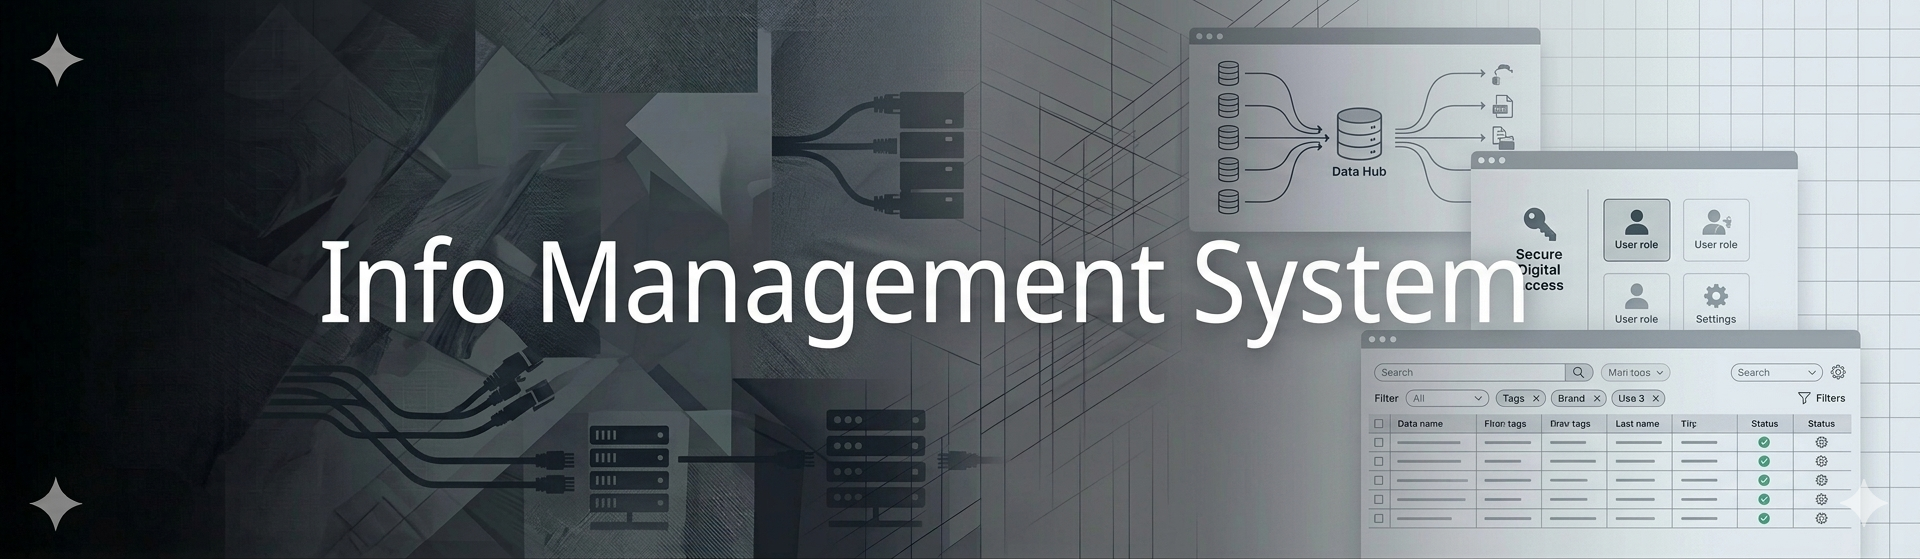
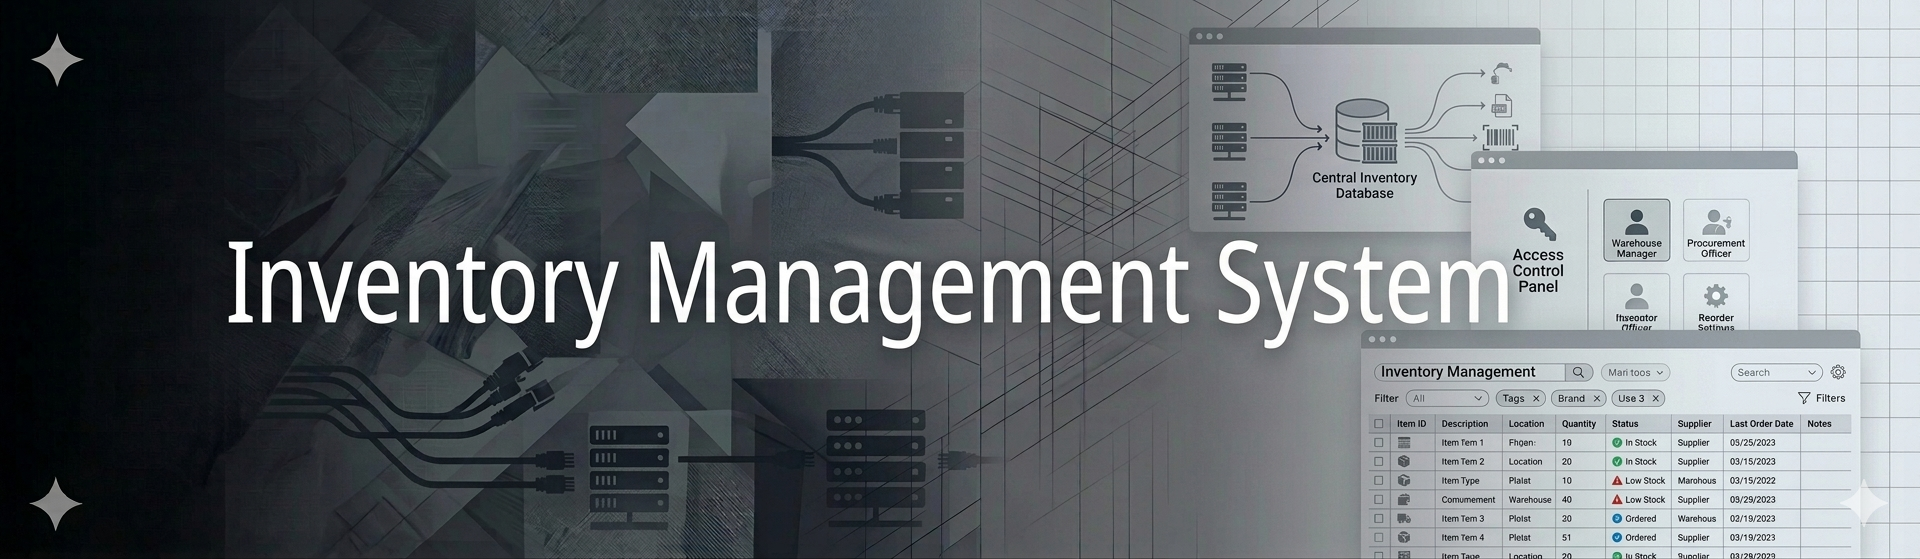
fix styling on products.html, vendors-list.html, vendors.html, fix search by vendor in vendors-list; VendorDetailViewController.java, VendorViewController.java, VendorRepository.java, VendorService.java, VendorServiceImpl.java

diff --git a/src/main/resources/templates/vendors-list.html b/src/main/resources/templates/vendors-list.html
@@ -20,43 +20,46 @@
 
     <!-- Search and Filter Section -->
     <div class="filter-section border">
-        <form th:action="@{/vendors/all}" method="get" class="row align-items-center">
-            <div class="col-md-4">
-                <div class="input-group">
-                    <span class="input-group-text">Search Vendor:</span>
-                    <label>
-                        <input type="text" name="searchVendor" class="form-control" placeholder="Search...">
-                    </label>
-                    <button class="btn btn-outline-secondary" type="button">Clear</button>
-                </div>
-            </div>
+        <form th:action="@{/vendors/all}" method="get">
+            <label for="vendors">Search Vendor:</label>
+            <input
+                    type="search"
+                    id="vendors"
+                    name="contactName"
+                    th:value="${contactName}"
+                    placeholder="Search By Vendors..."
+                    required
+            />
+            <button type="submit">Search</button>
+            <span class="validity" aria-live="polite"></span>
+            <a th:href="@{/vendors/all}" style="text-decoration: none;">
+                <button type="button">Clear / Show All</button>
+            </a>
 
-            <div class="col-md-6 d-flex align-items-center">
-                <span class="me-3 fw-bold">Filters:</span>
-                <div class="form-check form-check-inline">
-                    <label>
-                        <input class="form-check-input" type="checkbox" checked>
-                    </label> <label class="form-check-label">All</label>
-                </div>
-                <div class="form-check form-check-inline">
-                    <label>
-                        <input class="form-check-input" type="checkbox">
-                    </label> <label class="form-check-label">Enabled</label>
-                </div>
-                <div class="form-check form-check-inline">
-                    <label>
-                        <input class="form-check-input" type="checkbox">
-                    </label> <label class="form-check-label">Disabled</label>
-                </div>
-            </div>
+<!--            <div class="col-md-6 d-flex align-items-center">-->
+<!--                <span class="me-3 fw-bold">Filters:</span>-->
+<!--                <div class="form-check form-check-inline">-->
+<!--                    <label>-->
+<!--                        <input class="form-check-input" type="checkbox" checked>-->
+<!--                    </label> <label class="form-check-label">All</label>-->
+<!--                </div>-->
+<!--                <div class="form-check form-check-inline">-->
+<!--                    <label>-->
+<!--                        <input class="form-check-input" type="checkbox">-->
+<!--                    </label> <label class="form-check-label">Enabled</label>-->
+<!--                </div>-->
+<!--                <div class="form-check form-check-inline">-->
+<!--                    <label>-->
+<!--                        <input class="form-check-input" type="checkbox">-->
+<!--                    </label> <label class="form-check-label">Disabled</label>-->
+<!--                </div>-->
+<!--            </div>-->
 
-            <div class="col-md-2 text-end">
-                <button type="button" class="btn btn-dark btn-sm rounded-pill">Remove all filters</button>
-            </div>
+<!--            <div class="col-md-2 text-end">-->
+<!--                <button type="button" class="btn btn-dark btn-sm rounded-pill">Remove all filters</button>-->
+<!--            </div>-->
         </form>
     </div>
-
-
 
     <!--Pagination-->
     <nav aria-label="Search navigation" th:if="${searchResults?.totalPages > 1}" class="mt-4">

diff --git a/src/main/resources/templates/vendors.html b/src/main/resources/templates/vendors.html
@@ -17,12 +17,12 @@
 
 <div class="container mt-5">
 
-    <h2 class="mb-4" style="margin-left: 20px; margin-right: 20px;">Vendors Card View</h2>
+    <h2 class="mb-4">Vendors Card View</h2>
 
-    <div class="filter-section border"
-         style="margin-left: 20px; margin-right: 20px; padding: 10px; display: flex; align-items: center; border-radius: 5px;">
+<!--         style="margin-left: 20px; margin-right: 20px; padding: 10px; display: flex; align-items: center; border-radius: 5px;">-->
 
-    <div style="margin-left: 5px;">
+<!--    <div style="margin-left: 5px;">-->
+    <div class="filter-section border">
         <form class="second-form" th:action="@{|/vendors/search|}" method="get">
             <label for="vendors">Search Vendor</label>
             <input
@@ -40,18 +40,7 @@
             </a>
         </form>
     </div>
-    </div>
-
-    <style>
-        form.second-form {
-            margin-top: 15px; /* space above second form */
-        }
-    </style>
-
     <!--Pagination-->
-    <div class="d-flex align-items-center mt-4" style="margin-bottom: -15px;">
-        <div style="width: 20px;"></div>
-
         <!-- 1. Pagination First -->
         <nav aria-label="Search navigation" th:if="${searchResults?.totalPages > 1}">
             <ul class="pagination pagination-sm mb-0">
@@ -75,23 +64,22 @@
 
                 <!-- Next -->
                 <li class="page-item" th:classappend="${searchResults?.last} ? 'disabled'">
-                    <a class="page-link" th:href="@{/vendors(page=${searchResults.number + 1}, size=${size}, sort=${sortBy})}">Next</a>
+                    <a class="page-link mb-3" th:href="@{/vendors(page=${searchResults.number + 1}, size=${size}, sort=${sortBy})}">Next</a>
                 </li>
             </ul>
         </nav>
     </div>
-</div>
-<br>
+
     <div class="row justify-content-center">
 
         <div class="col-lg-10">
-            <a th:href="@{/vendors/new}" class="btn btn-sm btn-outline-dark mt-2 mb-2" title="Add">Add</a>
+            <a th:href="@{/vendors/new}" class="btn btn-sm btn-outline-dark mb-2 ms-2" title="Add">Add</a>
         </div>
 
         <div class="col-md-6 col-lg-5" th:each="vendor : ${vendors}">
 
             <!-- This controls the card width -->
-            <div class="card shadow-sm mb-4">
+            <div class="card shadow-sm mt-2 mb-2 mx-2">
                 <div class="card-header bg-black text-white">
                     <h5 class="mb-0">
                       <a th:href="@{/vendors/{acc}(acc=${vendor.accountNumber})}"
@@ -103,7 +91,7 @@
                     <!-- FIX: Combined into ONE form so all inputs are submitted together -->
                     <form th:action="@{/vendors/update}" method="post"
                           onsubmit="return confirm('Are you sure you want to save changes?')">
-                        
+
                         <!-- FIX: Use name/th:value instead of th:field to avoid binding errors in loops -->
                         <input type="hidden" name="id" th:value="${vendor.id}" />
 
@@ -152,7 +140,7 @@
                             <button type="submit" class="btn btn-dark me-2">Update</button>
                             <a th:href="@{/vendors/{acc}(acc=${vendor.accountNumber})}" class="btn btn-outline-secondary">View Details</a>
                             <!-- Delete form or link -->
-                            <a th:href="@{/vendors/delete/{id}(id=${vendor.id})}" 
+                            <a th:href="@{/vendors/delete/{id}(id=${vendor.id})}"
                                class="btn btn-dark ms-2"
                                onclick="return confirm('Are you sure you want to delete this vendor?')">Delete</a>
                         </div>

diff --git a/src/main/resources/templates/products.html b/src/main/resources/templates/products.html
@@ -195,7 +195,7 @@
                 <th>Price</th>
                 <th>Image</th>
                 <th>Actions</th>
-                <a th:href="@{/products/new}" class="btn btn-sm btn-outline-dark mt-2" title="Add">
+                <a th:href="@{/products/new}" class="btn btn-sm btn-outline-dark mt-1" title="Add">
                     Add
                 </a>
             </tr>

diff --git a/src/main/java/com/crus/Inventory_Management_System/controllers/VendorDetailViewController.java b/src/main/java/com/crus/Inventory_Management_System/controllers/VendorDetailViewController.java
@@ -42,16 +42,23 @@ public class VendorDetailViewController {
 
     // List all vendors
     @GetMapping("/all")
-    public String listVendors(@RequestParam(name = "keyword", required = false, defaultValue = "") String keyword, @RequestParam(defaultValue = "0") int page, Model model, Authentication authentication) {
+    public String listVendors(@RequestParam(name = "contactName", required = false, defaultValue = "") String contactName, @RequestParam(name = "keyword", required = false, defaultValue = "") String keyword, @RequestParam(defaultValue = "0") int page, Model model, Authentication authentication) {
 
         int size = 22;
-        pagination(keyword, page, model, authentication, size, vendorService);
+        pagination(contactName, keyword, page, model, authentication, size, vendorService);
 
         return "vendors-list";
     }
 
-    static void pagination(@RequestParam(name = "keyword", required = false, defaultValue = "") String keyword, @RequestParam(defaultValue = "0") int page, Model model, Authentication authentication, int size, VendorService vendorService) {
-        Page<Vendor> vendorPage = vendorService.getAllVendors(keyword, PageRequest.of(page, size, Sort.by("id")));
+    static void pagination(@RequestParam(name = "contactName", required = false, defaultValue = "") String contactName, @RequestParam(name = "keyword", required = false, defaultValue = "") String keyword, @RequestParam(defaultValue = "0") int page, Model model, Authentication authentication, int size, VendorService vendorService) {
+
+        Page<Vendor> vendorPage;
+
+        if (contactName != null && !contactName.trim().isEmpty()) {
+            vendorPage = vendorService.findByContactName(contactName, PageRequest.of(page, size, Sort.by("id")));
+        } else {
+            vendorPage = vendorService.getAllVendors(keyword, PageRequest.of(page, size, Sort.by("id")));
+        }
 
         String currentUserId = authentication.getName();
 
@@ -69,6 +76,7 @@ public class VendorDetailViewController {
 
         model.addAttribute("vendors",vendorList);
         model.addAttribute("searchResults", vendorPage);
+        model.addAttribute("contactName", contactName);
         model.addAttribute("keyword", keyword);
         model.addAttribute("currentPage", page);
         model.addAttribute("size", size);

diff --git a/src/main/java/com/crus/Inventory_Management_System/controllers/VendorViewController.java b/src/main/java/com/crus/Inventory_Management_System/controllers/VendorViewController.java
@@ -51,7 +51,6 @@ public class VendorViewController {
         return "vendors";
     }
 
-
     @PostMapping()
     public String saveVendor(@Valid @ModelAttribute("vendor") Vendor vendor, Model model, @RequestParam String keyword, @RequestParam(defaultValue = "0") int page, @RequestParam(defaultValue = "22") int size) {
         try {
@@ -87,8 +86,8 @@ public class VendorViewController {
 
 
     @GetMapping()
-    public String getAllVendors(Model model, Authentication authentication, @RequestParam(name = "keyword", required = false, defaultValue = "") String keyword, @RequestParam(defaultValue = "0") int page, @RequestParam(defaultValue = "22") int size) {
-        VendorDetailViewController.pagination(keyword, page, model, authentication, size, vendorService);
+    public String getAllVendors(Model model, Authentication authentication, @RequestParam(name = "contactName", required = false, defaultValue = "") String contactName, @RequestParam(name = "keyword", required = false, defaultValue = "") String keyword, @RequestParam(defaultValue = "0") int page, @RequestParam(defaultValue = "22") int size) {
+        VendorDetailViewController.pagination(contactName, keyword, page, model, authentication, size, vendorService);
 
         return "vendors";
     }

diff --git a/src/main/java/com/crus/Inventory_Management_System/services/VendorServiceImpl.java b/src/main/java/com/crus/Inventory_Management_System/services/VendorServiceImpl.java
@@ -15,6 +15,7 @@ import jakarta.persistence.EntityManagerFactory;
 import jakarta.persistence.EntityNotFoundException;
 import org.springframework.data.domain.Page;
 import org.springframework.data.domain.PageRequest;
+import org.springframework.data.web.PageableHandlerMethodArgumentResolver;
 import org.springframework.transaction.annotation.Transactional;
 import org.hibernate.Hibernate;
 import org.modelmapper.ModelMapper;
@@ -48,6 +49,8 @@ public class VendorServiceImpl implements VendorService {
 
     @Autowired
     private AccessHelper accessHelper;
+    @Autowired
+    private PageableHandlerMethodArgumentResolver pageableResolver;
 
 
     @Override
@@ -105,6 +108,11 @@ public class VendorServiceImpl implements VendorService {
     @Override
     public List<Vendor> findByContactName(String contactName) {
         return vendorRepository.findByContactNameContainingIgnoreCase(contactName);
+    }
+
+    @Override
+    public Page<Vendor> findByContactName(String contactName, PageRequest pageRequest) {
+        return vendorRepository.findByContactNameContainingIgnoreCase(contactName, pageRequest);
     }
 
     @Override

diff --git a/src/main/java/com/crus/Inventory_Management_System/repositories/VendorRepository.java b/src/main/java/com/crus/Inventory_Management_System/repositories/VendorRepository.java
@@ -20,4 +20,6 @@ public interface VendorRepository extends JpaRepository<Vendor, Long> {
     Optional<Vendor> findByAccountNumberWithProducts(@Param("acc") String accountNumber);
 
     List<Vendor> findByContactNameContainingIgnoreCase(String contactName);
+
+    Page<Vendor> findByContactNameContainingIgnoreCase(String contactName, Pageable pageable);
 }

diff --git a/src/main/java/com/crus/Inventory_Management_System/services/VendorService.java b/src/main/java/com/crus/Inventory_Management_System/services/VendorService.java
@@ -39,4 +39,6 @@ public interface VendorService {
     void disassociateProduct(Long id, Long productId);
 
     List<Vendor> findByContactName(String contactName);
+
+    Page<Vendor> findByContactName(String contactName, PageRequest pageRequest);
 }
